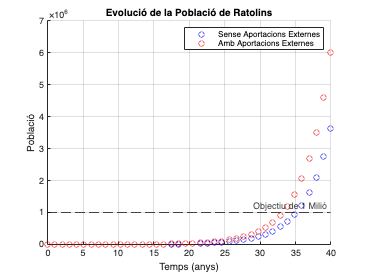
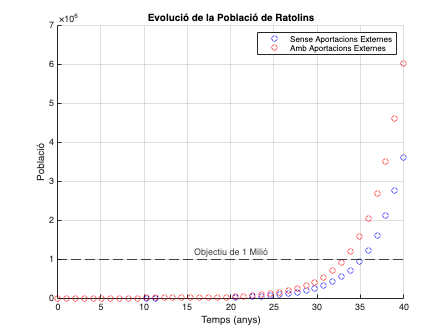
millores

diff --git a/docs/MalthusRatolins.md b/docs/MalthusRatolins.md
@@ -6,6 +6,9 @@ permalink: /MalthusRatolins
 ---
 
 
+**\# Model exponencial**
+
+
 **Cas pràctic: Quan la població de ratolins arribarà a 1 milió?**
 
 
@@ -31,6 +34,14 @@ On:
 
 ```matlab
 % Paràmetres inicials
+pwd()
+```
+
+```matlabTextOutput
+ans = '/Users/jordivilla/GitHub/Classes/Matematiques-Bio/code'
+```
+
+```matlab
 P0 = 100;        % Població inicial
 r = 0.30;        % Taxa de creixement natural (30%)
 P_target = 1e6;  % Objectiu de població (1 milió)
@@ -159,7 +170,8 @@ figure;
 scatter(t, P_no_A, 'b'); % Corba sense aportacions externes
 hold on;
 scatter(t, P_with_A, 'r'); % Corba amb aportacions externes
-yline(P_target, '--k', 'Objectiu de 1 Milió'); % Línia horitzontal per l'objectiu
+yl=yline(P_target, '--k', 'Objectiu de 1 Milió'); % Línia horitzontal per l'objectiu
+yl.LabelHorizontalAlignment = 'center';
 xlabel('Temps (anys)');
 ylabel('Població');
 title('Evolució de la Població de Ratolins');
